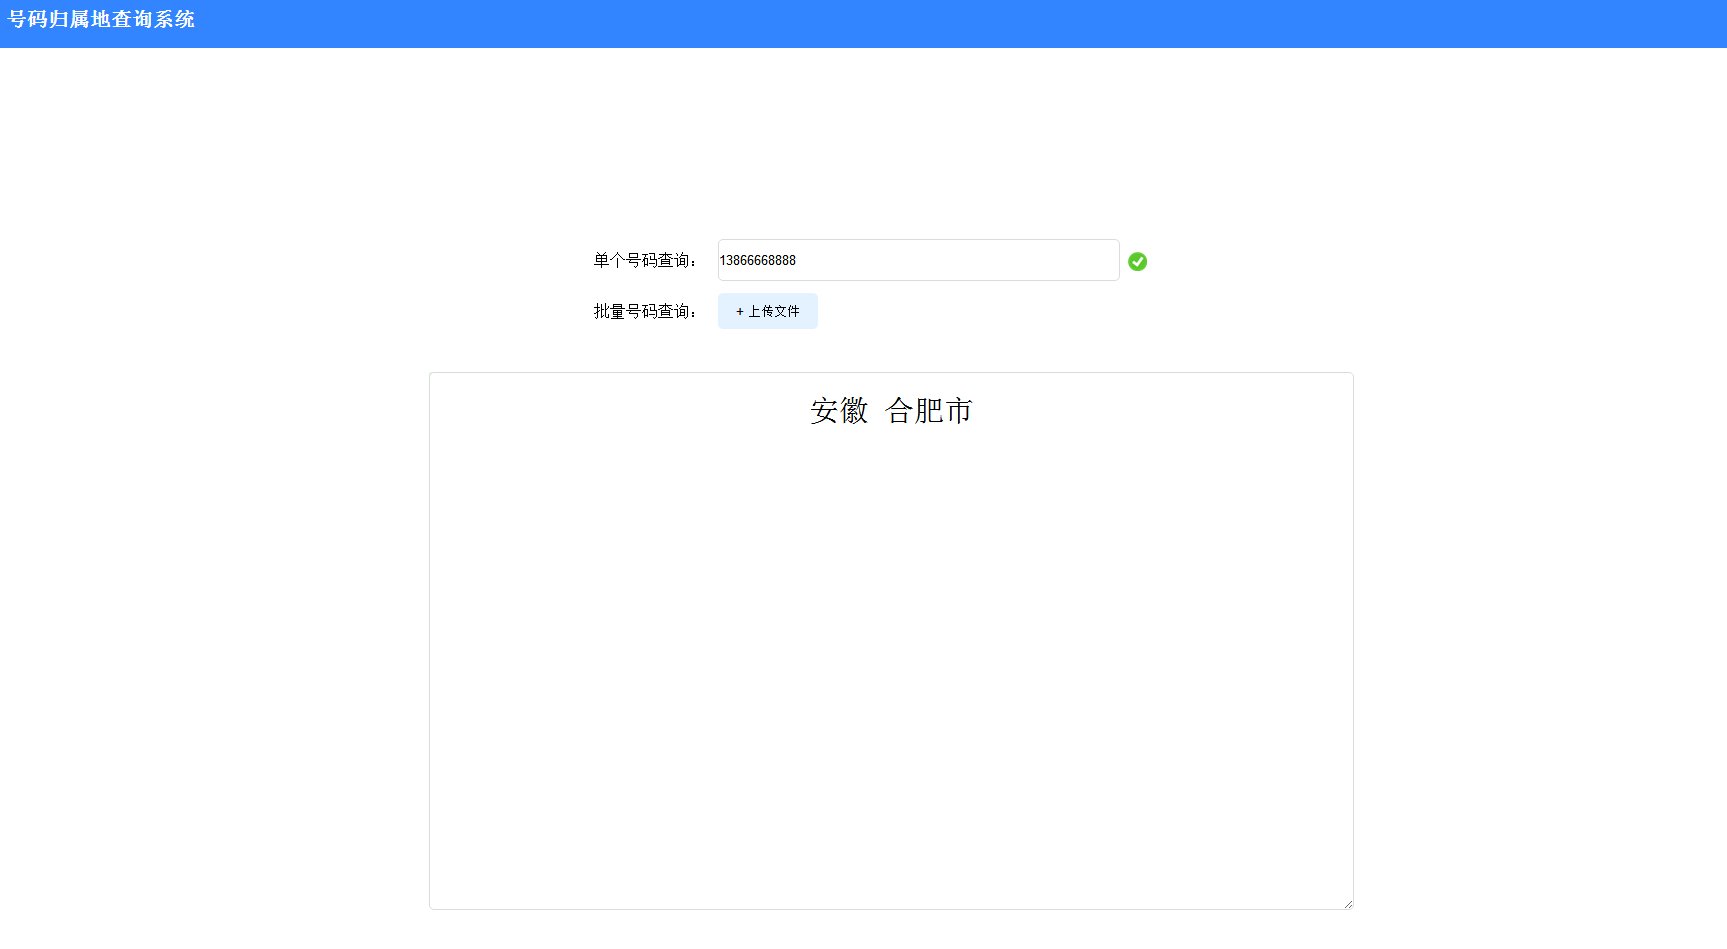
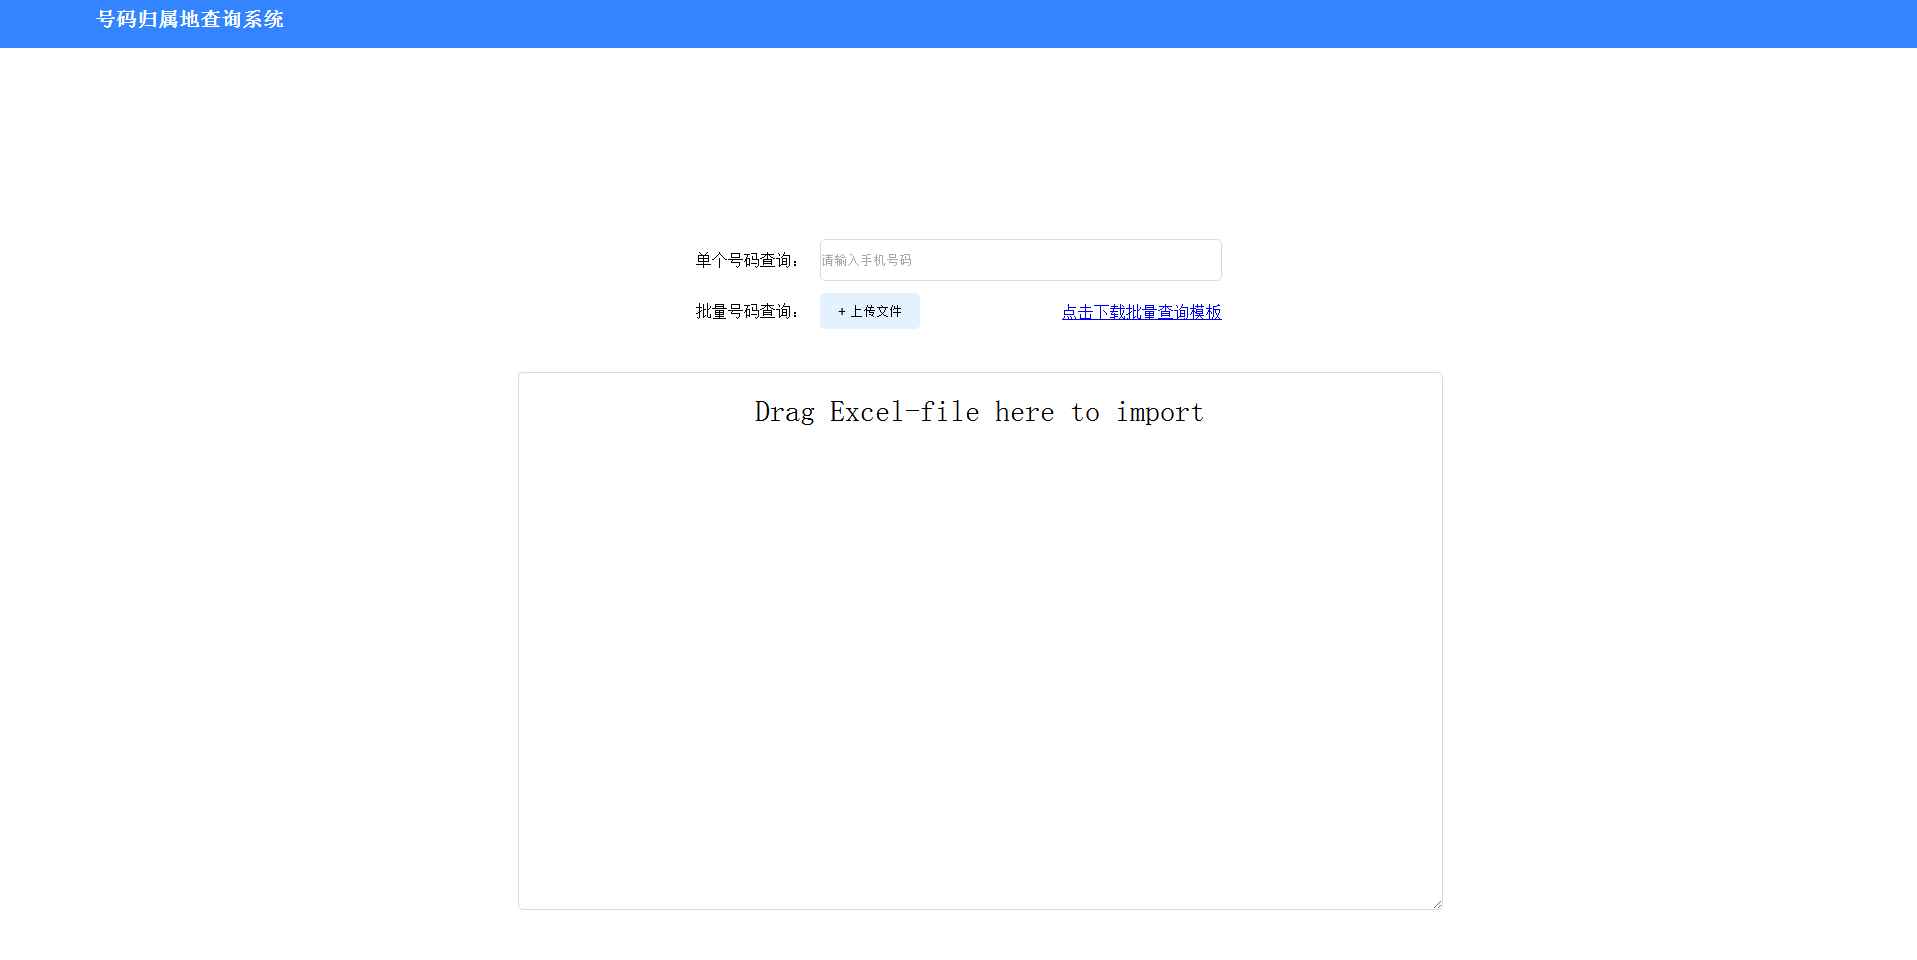
首页新增“点击下载批量查询模板”组件

diff --git a/src/main/webapp/static/css/search.css b/src/main/webapp/static/css/search.css
@@ -54,9 +54,8 @@
 	position: relative;
 	margin: 0 auto;
 	border: 0px;
-	border-collapse: separate;/*表格边框独立不合并*/
-	border-spacing: 10px;/*单元格间距*/
-
+	border-collapse: separate; /*表格边框独立不合并*/
+	border-spacing: 10px; /*单元格间距*/
 }
 
 .content .tools #phoneNum {
@@ -101,3 +100,8 @@
 }
 
 /*content end*/
+
+#multipleSearch #template {
+	float: right;
+	padding-top: 10px;
+}
